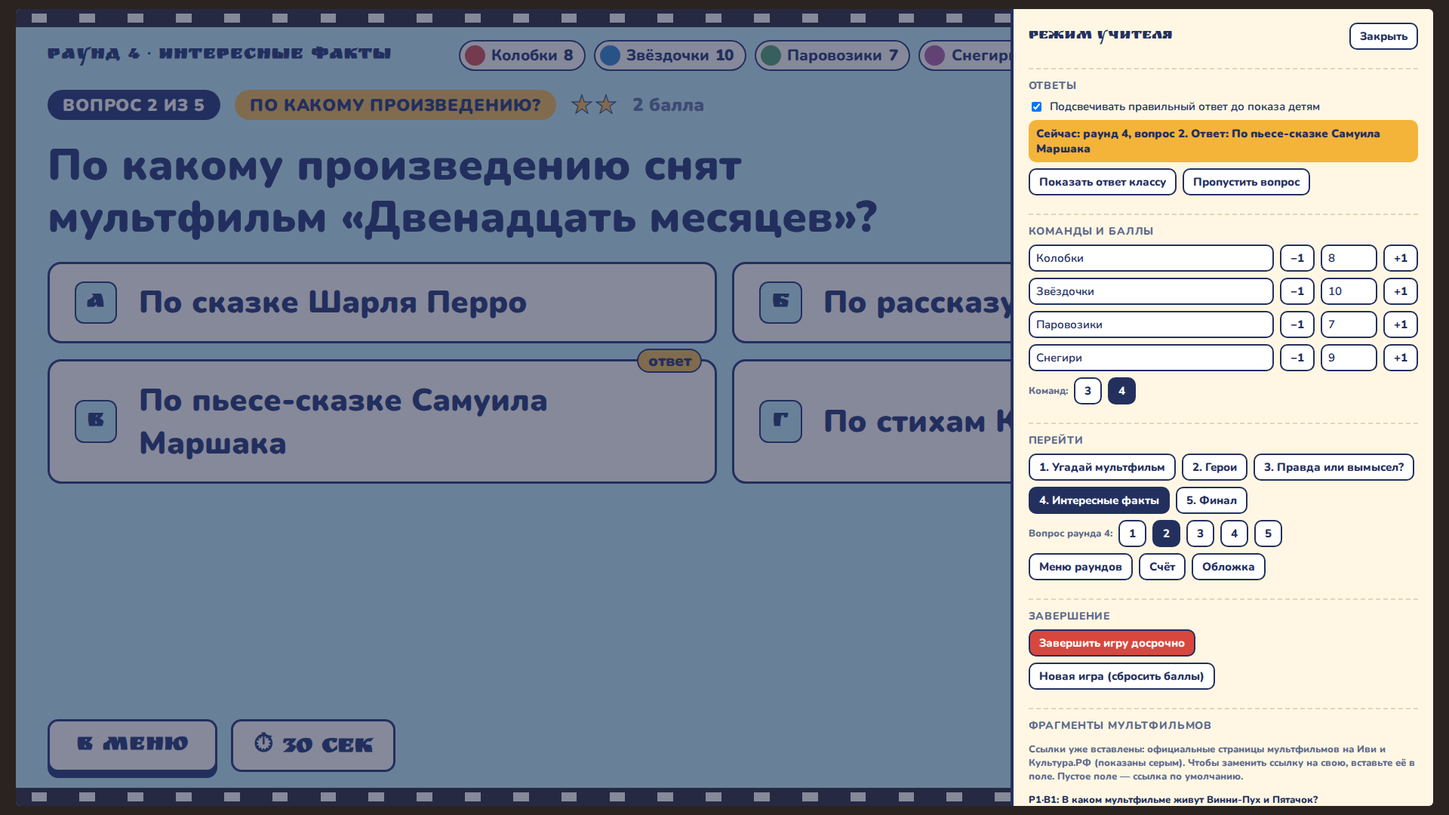
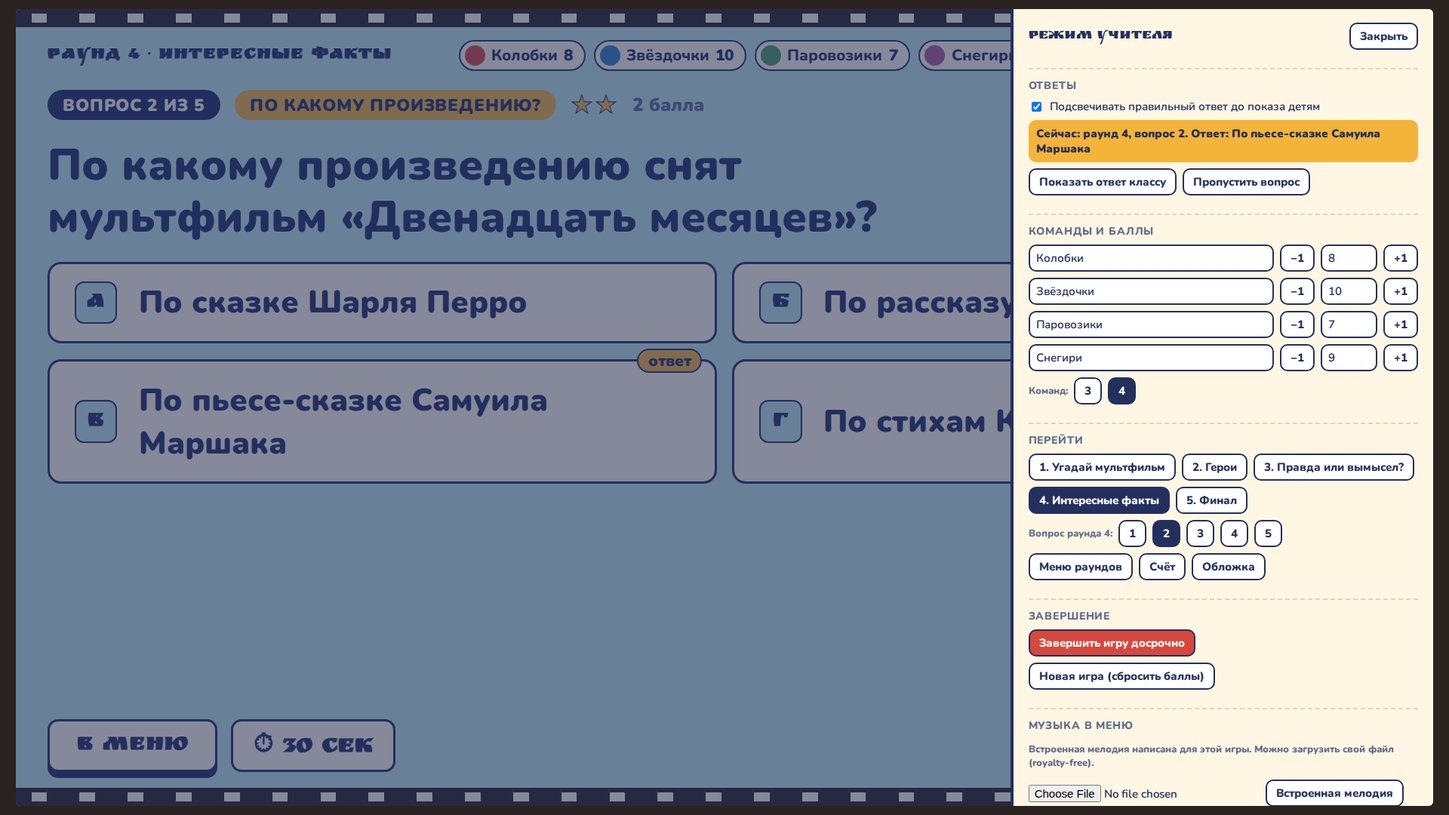
Убрать фрагменты мультфильмов
Удалены кнопка «Посмотреть фрагмент», ссылки на видео, раздел
в режиме учителя и упоминания в документации.

Claude-Session: https://claude.ai/code/session_01LLaypuKBr6mxoCWBeA23np

Changed region(s): [[0.7188, 0.8861, 0.9688, 1.0]]

diff --git a/index.html b/index.html
@@ -164,8 +164,6 @@ h1,h2,h3{font-family:var(--display);font-weight:400;margin:0;text-wrap:balance;l
 .award{display:flex;gap:.7cqw;align-items:center;flex-wrap:wrap;font-size:max(13px,1.35cqw);font-weight:900}
 .aw{border:3px solid var(--tc);background:var(--paper);border-radius:999px;padding:.2em .8em;font-weight:900;color:var(--ink);font-size:max(13px,1.3cqw)}
 .aw.on{background:var(--tc);color:#fff}
-.clip{display:inline-flex;align-items:center;gap:.4em;white-space:nowrap;font-weight:900;font-size:max(13px,1.3cqw);background:var(--ink);color:var(--paper);border:0;border-radius:999px;padding:.3em 1em;text-decoration:none}
-.cliphint{font-size:max(12px,1.15cqw);color:var(--muted);font-weight:800}
 .row{display:flex;gap:1cqw;align-items:center;flex-wrap:wrap}
 
 .timer{font-family:var(--display);font-variant-numeric:tabular-nums;font-size:max(16px,1.8cqw);background:var(--paper);border:3px solid var(--ink);border-radius:14px;padding:.3em .8em;min-width:5.5em;text-align:center}
@@ -208,7 +206,6 @@ h1,h2,h3{font-family:var(--display);font-weight:400;margin:0;text-wrap:balance;l
 .pbtn.cur{background:var(--ink);color:#fff}
 .keyline{background:var(--sun);border-radius:10px;padding:8px 10px;font-weight:900}
 .small{font-size:13px;color:var(--muted);font-weight:700}
-.linkq{font-size:13px;font-weight:800;margin-bottom:2px}
 
 @media (max-width:760px){
   .stage{aspect-ratio:auto;min-height:calc(100dvh - 24px)}
@@ -239,29 +236,29 @@ const ROUNDS = [
  {title:"Угадай мультфильм", minutes:7, color:"var(--t1)", type:"choice",
   about:"Прочитайте вопрос и выберите название мультфильма. Посоветуйтесь в команде, потом отвечайте.",
   qs:[
-   {q:"В каком мультфильме живут Винни-Пух и Пятачок?", o:["«Винни-Пух»","«Малыш и Карлсон»","«Ну, погоди!»","«Бременские музыканты»"], a:0, p:1, clip:"https://www.ivi.tv/watch/vinni-puh_i_vse_vse_vse",
+   {q:"В каком мультфильме живут Винни-Пух и Пятачок?", o:["«Винни-Пух»","«Малыш и Карлсон»","«Ну, погоди!»","«Бременские музыканты»"], a:0, p:1,
     f:"Мультфильм снял режиссёр Фёдор Хитрук в 1969 году. Винни-Пуха озвучил актёр Евгений Леонов."},
-   {q:"Мальчик по имени Дядя Фёдор уезжает жить в деревню вместе с котом и псом. Как называется мультфильм?", o:["«Каникулы Бонифация»","«Трое из Простоквашино»","«Котёнок по имени Гав»","«Крокодил Гена»"], a:1, p:1, clip:"https://www.ivi.tv/watch/prostokvashino",
+   {q:"Мальчик по имени Дядя Фёдор уезжает жить в деревню вместе с котом и псом. Как называется мультфильм?", o:["«Каникулы Бонифация»","«Трое из Простоквашино»","«Котёнок по имени Гав»","«Крокодил Гена»"], a:1, p:1,
     f:"Мультфильм вышел в 1978 году. Он снят по повести Эдуарда Успенского «Дядя Фёдор, пёс и кот»."},
-   {q:"В каком мультфильме Трубадур путешествует с Ослом, Псом, Котом и Петухом?", o:["«Золотая антилопа»","«Снежная королева»","«Бременские музыканты»","«Двенадцать месяцев»"], a:2, p:2, clip:"https://www.ivi.tv/watch/3209",
+   {q:"В каком мультфильме Трубадур путешествует с Ослом, Псом, Котом и Петухом?", o:["«Золотая антилопа»","«Снежная королева»","«Бременские музыканты»","«Двенадцать месяцев»"], a:2, p:2,
     f:"Мультфильм вышел в 1969 году. Песни для него написал композитор Геннадий Гладков."},
-   {q:"В каком мультфильме девочка зимой идёт в лес за подснежниками?", o:["«Морозко»","«Снегурочка»","«Серебряное копытце»","«Двенадцать месяцев»"], a:3, p:2, clip:"https://www.culture.ru/live/movies/8223/dvenadcat-mesyacev",
+   {q:"В каком мультфильме девочка зимой идёт в лес за подснежниками?", o:["«Морозко»","«Снегурочка»","«Серебряное копытце»","«Двенадцать месяцев»"], a:3, p:2,
     f:"Мультфильм 1956 года снят по пьесе-сказке Самуила Маршака. У новогоднего костра девочка встречает все двенадцать месяцев года."},
-   {q:"В каком мультфильме к мальчику прилетает друг с пропеллером на спине?", o:["«Малыш и Карлсон»","«Незнайка в Солнечном городе»","«Винни-Пух»","«Буратино»"], a:0, p:1, clip:"https://www.ivi.tv/watch/malysh_i_karlson",
+   {q:"В каком мультфильме к мальчику прилетает друг с пропеллером на спине?", o:["«Малыш и Карлсон»","«Незнайка в Солнечном городе»","«Винни-Пух»","«Буратино»"], a:0, p:1,
     f:"Мультфильм «Малыш и Карлсон» вышел в 1968 году, а в 1970 году вышло продолжение — «Карлсон вернулся»."},
-   {q:"В каком мультфильме белка грызёт орешки с золотыми скорлупками?", o:["«Сказка о рыбаке и рыбке»","«Сказка о царе Салтане»","«Аленький цветочек»","«Конёк-Горбунок»"], a:1, p:2, clip:"https://www.culture.ru/live/movies/518/skazka-o-care-saltane",
+   {q:"В каком мультфильме белка грызёт орешки с золотыми скорлупками?", o:["«Сказка о рыбаке и рыбке»","«Сказка о царе Салтане»","«Аленький цветочек»","«Конёк-Горбунок»"], a:1, p:2,
     f:"Мультфильм «Сказка о царе Салтане» сняли в 1984 году. Герои в нём говорят стихами Пушкина."}
   ]},
  {title:"Герои", minutes:7, color:"var(--t2)", type:"choice",
   about:"Вспомните героев мультфильмов: как их зовут и кто с кем дружит.",
   qs:[
-   {q:"Кто лучший друг Чебурашки?", o:["Кот Матроскин","Крокодил Гена","Винни-Пух","Карлсон"], a:1, p:1, clip:"https://www.ivi.tv/watch/cheburashka_i_krokodil_gena",
+   {q:"Кто лучший друг Чебурашки?", o:["Кот Матроскин","Крокодил Гена","Винни-Пух","Карлсон"], a:1, p:1,
     f:"Чебурашку придумал писатель Эдуард Успенский. В книге он назван неизвестным науке зверем."},
-   {q:"Как зовут пса из Простоквашино?", o:["Бобик","Тузик","Шарик","Дружок"], a:2, p:1, clip:"https://www.ivi.tv/watch/prostokvashino",
+   {q:"Как зовут пса из Простоквашино?", o:["Бобик","Тузик","Шарик","Дружок"], a:2, p:1,
     f:"Шарика в мультфильмах о Простоквашино озвучил актёр Лев Дуров."},
    {q:"Как зовут ослика — друга Винни-Пуха?", o:["Пятачок","Иа-Иа","Кролик","Тигра"], a:1, p:1,
     f:"Имя ослика похоже на крик настоящего осла. По-английски его зовут Eeyore."},
-   {q:"Кто в мультфильме «Ну, погоди!» всё время пытается поймать Зайца?", o:["Лиса","Медведь","Волк","Кот Леопольд"], a:2, p:1, clip:"https://www.ivi.tv/watch/nu_pogodi",
+   {q:"Кто в мультфильме «Ну, погоди!» всё время пытается поймать Зайца?", o:["Лиса","Медведь","Волк","Кот Леопольд"], a:2, p:1,
     f:"Волка озвучил актёр Анатолий Папанов, а Зайца — актриса Клара Румянова."},
    {q:"Как зовут почтальона из Простоквашино?", o:["Печкин","Пончиков","Петров","Пяточкин"], a:0, p:2,
     f:"Почтальон Печкин есть и в книге Успенского. В мультфильмах его озвучил актёр Борис Новиков."}
@@ -310,14 +307,13 @@ const ROUNDS = [
 const TEAM_COLORS=["var(--t1)","var(--t2)","var(--t3)","var(--t4)"];
 const NAME_IDEAS=["Колобки","Звёздочки","Паровозики","Снегири","Кораблики","Ромашки","Непоседы","Фантазёры"];
 const LETTERS=["А","Б","В","Г"];
-function srcName(u){try{const h=new URL(u).hostname.replace(/^www\./,"");return {"ivi.tv":"Иви","culture.ru":"Культура.РФ","premier.one":"PREMIER","kinopoisk.ru":"Кинопоиск","okko.tv":"Okko","rutube.ru":"Rutube","vk.com":"VK Видео","youtube.com":"YouTube"}[h]||h}catch(e){return ""}}
 
 /* ============ СОСТОЯНИЕ ============ */
 const KEY="multfilm-game-v1";
 function fresh(){return{screen:"cover",teamCount:4,teams:[0,1,2,3].map(i=>({name:"Команда "+(i+1),score:0})),
-  r:0,q:0,revealed:false,picked:null,clues:1,awards:{},done:{},showKey:false,sound:true,music:false,links:{}}}
+  r:0,q:0,revealed:false,picked:null,clues:1,awards:{},done:{},showKey:false,sound:true,music:false}}
 let S=fresh();
-try{const s=JSON.parse(localStorage.getItem(KEY)||"null"); if(s&&s.teams) S=Object.assign(fresh(),s);}catch(e){}
+try{const s=JSON.parse(localStorage.getItem(KEY)||"null"); if(s&&s.teams){ S=Object.assign(fresh(),s); delete S.links; }}catch(e){}
 function save(){try{localStorage.setItem(KEY,JSON.stringify(S))}catch(e){}}
 let panelOpen=false, confirmEnd=false, confirmReset=false;
 
@@ -459,13 +455,9 @@ function question(R){
       :`<div class="clue hid"><span class="n">${i+1}</span>Подсказка №${i+1} скрыта</div>`).join("")}</div>`;
   }
   const ansText=R.type==="choice"?Q.o[Q.a]:R.type==="tf"?(Q.a?"ПРАВДА":"ВЫМЫСЕЛ"):Q.ans;
-  const link=S.links[k]||(typeof Q.clip==="string"?Q.clip:"");
-  const clip=Q.clip?(link?`<a class="clip" href="${esc(link)}" target="_blank" rel="noopener">▶ ПОСМОТРЕТЬ ФРАГМЕНТ <small style="opacity:.75;font-weight:800">· ${esc(srcName(link))}</small></a>`
-    :`<button class="clip" data-act="nolink">▶ ПОСМОТРЕТЬ ФРАГМЕНТ</button><span class="cliphint" id="cliphint" hidden>[ВСТАВИТЬ ССЫЛКУ НА ФРАГМЕНТ] — добавьте ссылку в режиме учителя</span>`):"";
   const aw=S.awards[k]||[];
   const answer=S.revealed?`<div class="answer"><div class="a">Правильный ответ: <b>${esc(ansText)}</b></div><div class="f">${esc(Q.f)}</div>
-    <div class="award">Кому ${Q.p} ${ptsWord(Q.p)}? ${teams().map((t,i)=>`<button class="aw ${aw.includes(i)?"on":""}" style="--tc:${TEAM_COLORS[i]}" data-act="award" data-t="${i}" aria-pressed="${aw.includes(i)}">${esc(t.name)} +${Q.p}</button>`).join("")}
-    ${clip?`<span class="row" style="margin-left:auto">${clip}</span>`:""}</div></div>`:"";
+    <div class="award">Кому ${Q.p} ${ptsWord(Q.p)}? ${teams().map((t,i)=>`<button class="aw ${aw.includes(i)?"on":""}" style="--tc:${TEAM_COLORS[i]}" data-act="award" data-t="${i}" aria-pressed="${aw.includes(i)}">${esc(t.name)} +${Q.p}</button>`).join("")}</div></div>`:"";
   const keyStrip=S.showKey&&!S.revealed&&R.type==="clues"?`<div class="note" style="background:var(--sun);color:var(--ink);border-radius:10px;padding:.3em .8em;align-self:flex-start">Для учителя: ${esc(ansText)}</div>`:"";
   const main=`<div class="qwrap"><div class="qhead"><span class="tag">Вопрос ${S.q+1} из ${R.qs.length}</span>
      ${Q.t?`<span class="tag lit">${esc(Q.t)}</span>`:""}<span class="stars" title="${Q.p} ${ptsWord(Q.p)}" style="font-size:max(16px,1.8cqw)">${stars(Q.p)}</span>
@@ -507,7 +499,6 @@ function final(){
 function renderPanel(){
   const R=ROUNDS[S.r], inQ=S.screen==="question", Q=inQ?R.qs[S.q]:null;
   const ans=Q?(R.type==="choice"?Q.o[Q.a]:R.type==="tf"?(Q.a?"ПРАВДА":"ВЫМЫСЕЛ"):Q.ans):"";
-  const clipQs=[];ROUNDS.forEach((r,ri)=>r.qs.forEach((q,qi)=>{if(q.clip)clipQs.push({ri,qi,q:q.q})}));
   $("panel").innerHTML=`<div class="pbox" role="dialog" aria-label="Режим учителя">
    <div class="prow" style="justify-content:space-between"><h3>Режим учителя</h3><button class="pbtn" data-act="teacher">Закрыть</button></div>
    <section><h4>Ответы</h4>
@@ -532,10 +523,6 @@ function renderPanel(){
       :`<button class="pbtn danger" data-act="end">Завершить игру досрочно</button>`}</div>
     <div class="prow">${confirmReset?`<span class="small">Обнулить баллы и прогресс?</span><button class="pbtn danger" data-act="resetNow">Да, сбросить</button><button class="pbtn" data-act="cancel">Отмена</button>`
       :`<button class="pbtn" data-act="reset">Новая игра (сбросить баллы)</button>`}</div>
-   </section>
-   <section><h4>Фрагменты мультфильмов</h4>
-    <p class="small">Ссылки уже вставлены: официальные страницы мультфильмов на Иви и Культура.РФ (показаны серым). Чтобы заменить ссылку на свою, вставьте её в поле. Пустое поле — ссылка по умолчанию.</p>
-    ${clipQs.map(c=>`<div><div class="linkq">Р${c.ri+1}·В${c.qi+1}: ${esc(c.q)}</div><div class="prow"><input type="url" id="link-${c.ri}-${c.qi}" data-link="${c.ri}-${c.qi}" placeholder="${esc(typeof ROUNDS[c.ri].qs[c.qi].clip==="string"?ROUNDS[c.ri].qs[c.qi].clip:"[ВСТАВИТЬ ССЫЛКУ НА ФРАГМЕНТ]")}" value="${esc(S.links[c.ri+"-"+c.qi]||"")}"></div></div>`).join("")}
    </section>
    <section><h4>Музыка в меню</h4>
     <p class="small">Встроенная мелодия написана для этой игры. Можно загрузить свой файл (royalty-free).</p>
@@ -572,7 +559,6 @@ function act(el,e){
    case "count": S.teamCount=+el.dataset.n; break;
    case "ideas":{ const pool=[...NAME_IDEAS].sort(()=>Math.random()-.5); S.teams.forEach((t,i)=>t.name=pool[i]); break;}
    case "timer": if(timer.id||timerDone){stopTimer();timerDone=false;renderTimer();return} startTimer(30); return;
-   case "nolink": { const h=$("cliphint"); if(h)h.hidden=false; return;}
    case "sound": S.sound=!S.sound; break;
    case "music": S.music=!S.music; break;
    case "musicDefault": {const cm=$("customMusic"); cm.pause(); cm.removeAttribute("src"); cm.load(); break;}
@@ -582,7 +568,7 @@ function act(el,e){
    case "end": confirmEnd=true; renderPanel(); return;
    case "endNow": confirmEnd=false; stopTimer(); S.screen="final"; panelOpen=false; $("panel").hidden=true; victory(); break;
    case "reset": confirmReset=true; renderPanel(); return;
-   case "resetNow": { const keep={teams:S.teams.map(t=>({name:t.name,score:0})),teamCount:S.teamCount,links:S.links,sound:S.sound,music:S.music};
+   case "resetNow": { const keep={teams:S.teams.map(t=>({name:t.name,score:0})),teamCount:S.teamCount,sound:S.sound,music:S.music};
      S=Object.assign(fresh(),keep); S.screen="menu"; confirmReset=false; break;}
    case "cancel": confirmEnd=confirmReset=false; renderPanel(); return;
   }
@@ -596,7 +582,6 @@ document.addEventListener("change",e=>{const el=e.target;
   if(el.dataset.act==="showKey"){act(el);return}
   if(el.id==="music-file"&&el.files[0]){const cm=$("customMusic"); cm.src=URL.createObjectURL(el.files[0]); S.music=true; render(); return}
   if(el.dataset.score!==undefined){S.teams[+el.dataset.score].score=Math.max(0,parseInt(el.value)||0); render(); return}
-  if(el.dataset.link!==undefined){const v=el.value.trim(); if(v)S.links[el.dataset.link]=v; else delete S.links[el.dataset.link]; save(); return}
 });
 document.addEventListener("input",e=>{const el=e.target;
   if(el.dataset.name!==undefined){S.teams[+el.dataset.name].name=el.value||("Команда "+(+el.dataset.name+1)); save(); renderTop();}

diff --git a/README.md b/README.md
@@ -91,21 +91,7 @@
 
 ## Авторские права
 
-- Кадры и персонажи мультфильмов в игру **не встроены**. Иллюстрация на обложке нарисована специально для проекта.
-- Видео не встроено, а подключено ссылками на легальные площадки. После ответа на 9 вопросов появляется кнопка «▶ Посмотреть фрагмент», которая открывает мультфильм в новой вкладке:
-
-  | Мультфильм | Где смотреть |
-  |---|---|
-  | «Винни-Пух» | [Иви](https://www.ivi.tv/watch/vinni-puh_i_vse_vse_vse) |
-  | «Трое из Простоквашино» | [Иви](https://www.ivi.tv/watch/prostokvashino) |
-  | «Бременские музыканты» | [Иви](https://www.ivi.tv/watch/3209) |
-  | «Двенадцать месяцев» | [Культура.РФ](https://www.culture.ru/live/movies/8223/dvenadcat-mesyacev), бесплатно |
-  | «Малыш и Карлсон» | [Иви](https://www.ivi.tv/watch/malysh_i_karlson) |
-  | «Сказка о царе Салтане» | [Культура.РФ](https://www.culture.ru/live/movies/518/skazka-o-care-saltane), бесплатно |
-  | «Крокодил Гена» | [Иви](https://www.ivi.tv/watch/cheburashka_i_krokodil_gena) |
-  | «Ну, погоди!» | [Иви](https://www.ivi.tv/watch/nu_pogodi) |
-
-  Любую ссылку учитель может заменить на свою в режиме учителя.
+- Кадры, видео и персонажи мультфильмов в игру **не встроены**. Иллюстрация на обложке нарисована специально для проекта.
 - Все звуки и мелодия меню генерируются кодом прямо в браузере, чужой музыки нет. При желании учитель может загрузить свой royalty-free трек.
 
 ---
@@ -155,7 +141,6 @@ multfilm-quiz/
   o: ["Кот Матроскин", "Крокодил Гена", "Винни-Пух", "Карлсон"],
   a: 1,          // индекс правильного варианта
   p: 1,          // баллы: 1, 2 или 3
-  clip: 1,       // показать кнопку «Посмотреть фрагмент»
   t: "Кто автор?", // необязательная метка литературного блока
   f: "Интересный факт после ответа." }
 

diff --git a/docs/TEACHER_GUIDE.md b/docs/TEACHER_GUIDE.md
@@ -6,8 +6,7 @@
 2. Нажмите **«Экран»** в правом верхнем углу, чтобы развернуть игру на весь экран.
 3. Проверьте звук: кнопка **«Звук»** включает звуки ответов, **«Музыка»** — мелодию в меню.
 4. Если вы уже тестировали игру, откройте **«Режим учителя» → «Новая игра (сбросить баллы)»**.
-5. Фрагменты мультфильмов уже подключены: кнопка «▶ Посмотреть фрагмент» открывает мультфильм на Иви или Культура.РФ. Перед уроком откройте нужные ссылки и найдите момент, который хотите показать. Для части мультфильмов на Иви может понадобиться вход или подписка. Свою ссылку можно вставить в **«Режим учителя» → «Фрагменты мультфильмов»**.
-6. По желанию распечатайте [список вопросов с ответами](QUESTIONS.md).
+5. По желанию распечатайте [список вопросов с ответами](QUESTIONS.md).
 
 ## Во время игры
 
